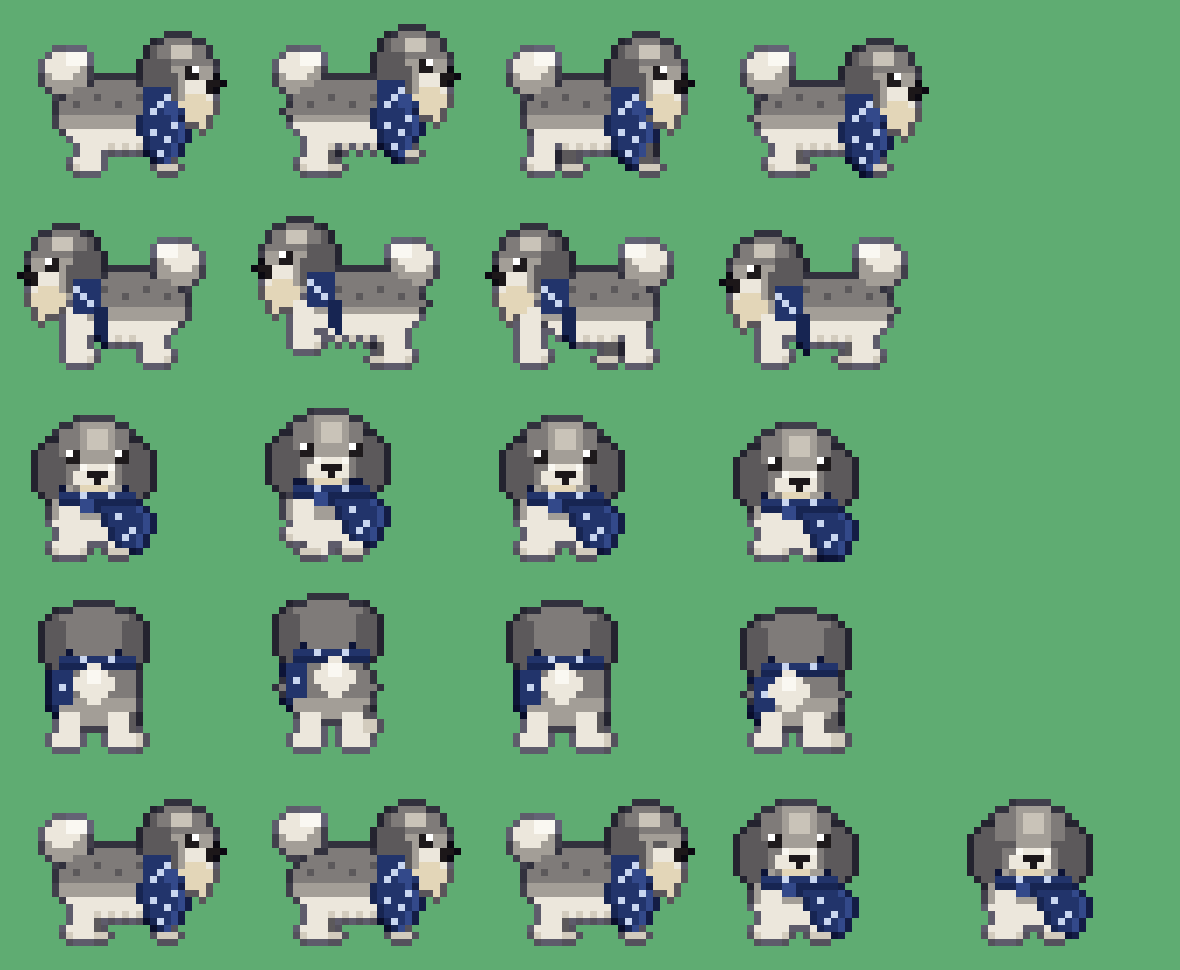
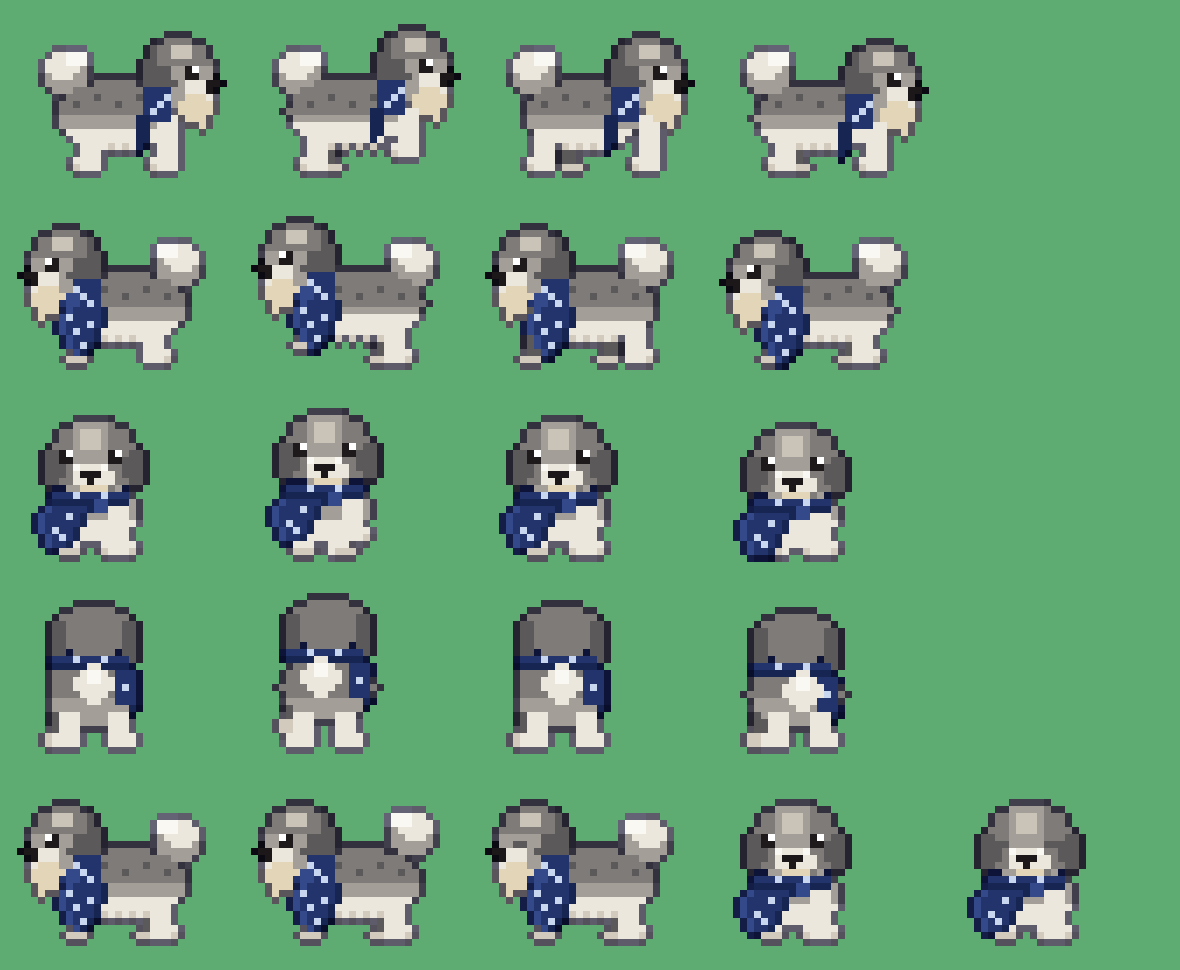
Sprocket: smaller ears, sling on the other shoulder (picture only) [skip ci]
Claude-Session: https://claude.ai/code/session_01DcRsQ77FYXtVXyNejf31QG

diff --git a/tools/sprocket.py b/tools/sprocket.py
@@ -52,7 +52,7 @@ def side(f, near_missing=True, idle=False, blink=False, wag=0):
     hy = bob
     ell(X, 22, 7 + hy, 5.2, 4.8, lambda x, y: K['gD'] if x < 19 else K['g'] if y < 6 + hy else K['gL'])
     R(21, 3 + hy, 3, 2, K['gX'])                                       # light streak on the forehead
-    ell(X, 19.5, 9 + hy, 2.2, 4, K['gD']); X(18, 12 + hy, K['g']); X(20, 13 + hy, K['g'])   # ear hanging down
+    ell(X, 19.8, 8.5 + hy, 1.7, 2.8, K['gD']); X(19, 11 + hy, K['g'])   # ear hanging down
     ell(X, 25, 9.5 + hy, 2.2, 2, K['w'])                               # short white muzzle (flat face)
     X(26, 8 + hy, K['nose']); X(27, 8 + hy, K['nose']); X(26, 9 + hy, K['nose'])
     ell(X, 24.5, 12 + hy, 2.4, 1.8, K['beard']); X(23, 13 + hy, K['beard']); X(25, 14 + hy, K['beard'])   # beard
@@ -87,7 +87,7 @@ def front(f, blink=False):
     hy = bob
     ell(X, 10, 7 + hy, 6.2, 5.3, lambda x, y: K['gL'] if 7 < x < 13 else K['g'])
     R(9, 3 + hy, 3, 3, K['gX'])                                        # forehead streak
-    ell(X, 3.8, 9 + hy, 1.9, 4, K['gD']); ell(X, 16.2, 9 + hy, 1.9, 4, K['gD'])   # floppy ears
+    ell(X, 4.4, 8.5 + hy, 1.5, 2.8, K['gD']); ell(X, 15.6, 8.5 + hy, 1.5, 2.8, K['gD'])   # floppy ears
     ell(X, 10, 10 + hy, 3.2, 2.2, K['w'])
     R(8, 8 + hy, 1, 1, K['wL']); R(12, 8 + hy, 1, 1, K['wL'])
     R(9, 9 + hy, 3, 1, K['nose']); X(10, 10 + hy, K['nose'])
@@ -112,7 +112,7 @@ def back(f):
     R(13, 14 + bob, 3, G - 15 - bob - lift, K['gD']); R(13, G - 2 - lift, 4, 2, K['wS'])      # far front leg (right)
     ell(X, 10, 13 + bob * .5, 6.5, 5, lambda x, y: K['gL'] if y > 13 else K['g'])
     ell(X, 10, 4.5 + bob, 5.5, 3.8, K['g'])                                   # back of the head
-    ell(X, 4.5, 6 + bob, 1.8, 3.6, K['gD']); ell(X, 15.5, 6 + bob, 1.8, 3.6, K['gD'])
+    ell(X, 5, 6 + bob, 1.4, 2.8, K['gD']); ell(X, 15, 6 + bob, 1.4, 2.8, K['gD'])
     # back legs, fluffy white
     R(5 + (bk > 0), G - 5, 3, 5, K['w']); R(12 - (bk < 0), G - 5, 3, 5, K['w'])
     R(4 + (bk > 0), G - 2, 4, 2, K['w']); R(12 - (bk < 0), G - 2, 4, 2, K['w'])
@@ -127,12 +127,13 @@ def back(f):
 
 
 if __name__ == '__main__':
-    R_ = [side(f) for f in range(4)]
-    L_ = [side(f, near_missing=False).transpose(Image.FLIP_LEFT_RIGHT) for f in range(4)]
-    D_ = [front(f) for f in range(4)]
-    U_ = [back(f) for f in range(4)]
-    IDLE = [side(0, idle=True), side(0, idle=True, wag=1), side(0, idle=True, blink=True)]
-    FI = [front(0), front(0, blink=True)]
+    FL = lambda im: im.transpose(Image.FLIP_LEFT_RIGHT)
+    R_ = [side(f, near_missing=False) for f in range(4)]          # facing right: his real front leg is the near one
+    L_ = [FL(side(f)) for f in range(4)]                          # facing left: sling on the near shoulder
+    D_ = [FL(front(f)) for f in range(4)]
+    U_ = [FL(back(f)) for f in range(4)]
+    IDLE = [FL(side(0, idle=True)), FL(side(0, idle=True, wag=1)), FL(side(0, idle=True, blink=True))]
+    FI = [FL(front(0)), FL(front(0, blink=True))]
     # raw sheet: rows right / left / down / up, 4 walk frames each (side 32x26, front/back 24x26), + idle row
     sh = Image.new('RGBA', (32 * 4, 26 * 5))
     for r, row in enumerate((R_, L_, D_, U_)):
@@ -162,6 +163,6 @@ if __name__ == '__main__':
     pf[0].save(O + 'sprocket_walk.gif', save_all=True, append_images=pf[1:], duration=110, loop=0)
     # size check next to Adjo
     far = Image.open(os.path.join(ROOT, 'assets/characters/farmer/farmer_sheet.png')).convert('RGBA').crop((22 * 4, 36, 22 * 5, 72))
-    cmp = Image.new('RGBA', (70, 44), bg); cmp.alpha_composite(far, (8, 4)); cmp.alpha_composite(R_[0], (30, 44 - 4 - 23 - 1))
+    cmp = Image.new('RGBA', (70, 44), bg); cmp.alpha_composite(far, (8, 4)); cmp.alpha_composite(L_[0], (30, 44 - 4 - 23 - 1))
     cmp.resize((70 * 8, 44 * 8), Image.NEAREST).convert('RGB').save(O + 'sprocket_with_adjo.png')
     print('ok')

diff --git a/assets/characters/sprocket/README.md b/assets/characters/sprocket/README.md
@@ -1,6 +1,6 @@
 # Sprocket (draft, pictures only)
 
-The user's dog: a three-legged Shih Tzu, white and gray, with **no front-left leg**. He wears a navy scarf with a white print (like his real bandana), wrapped around his neck and draped over his left shoulder like a sling, so the missing leg is hidden under the cloth. Generated by `tools/sprocket.py`.
+The user's dog: a three-legged Shih Tzu, white and gray, with **one front leg missing** (sides swapped after the user's feedback: the sling is on the viewer's left in the front view). He wears a navy scarf with a white print (like his real bandana), wrapped around his neck and draped over his left shoulder like a sling, so the missing leg is hidden under the cloth. Generated by `tools/sprocket.py`.
 
 - **Colors:**
   - gray coat `#7f7b79` (dark `#5c595b`, light `#a39e97`)
@@ -11,6 +11,4 @@ The user's dog: a three-legged Shih Tzu, white and gray, with **no front-left le
 - **`sprocket_sheet.png` layout:**
   - rows right / left / down / up: 4 walk frames each (32×26 cells)
   - last row: idle, tail wag, blink, front blink
-- **Which side shows the sling:**
-  - Facing right shows his left side: no near front leg, the scarf sling covers the shoulder.
-  - Facing left shows his right side: the real front leg, with the scarf edge behind it.
+- **Which side shows the sling:** facing left shows the scarf sling on the near shoulder with no leg; facing right shows his real front leg. Ears were made smaller after the user's feedback.
